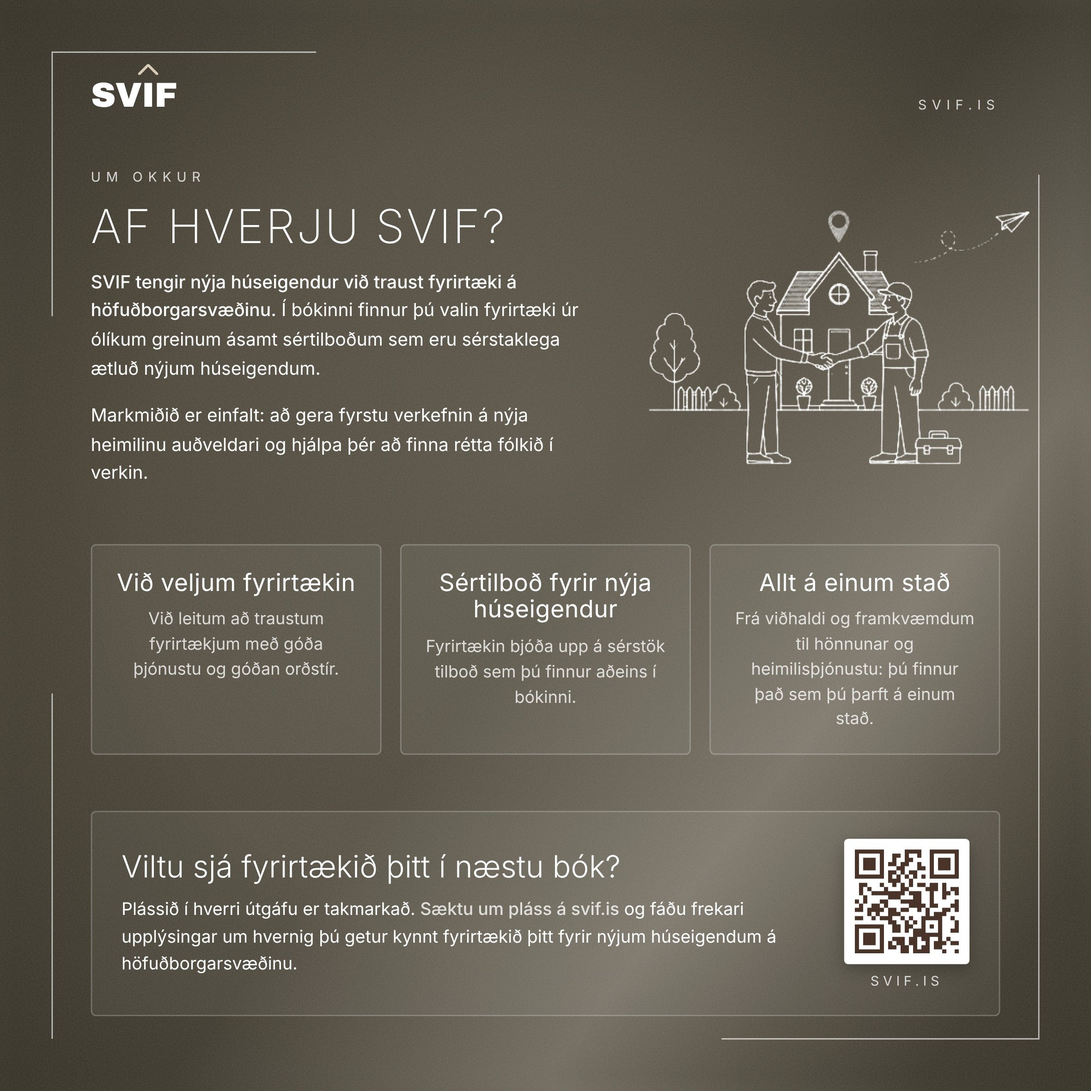
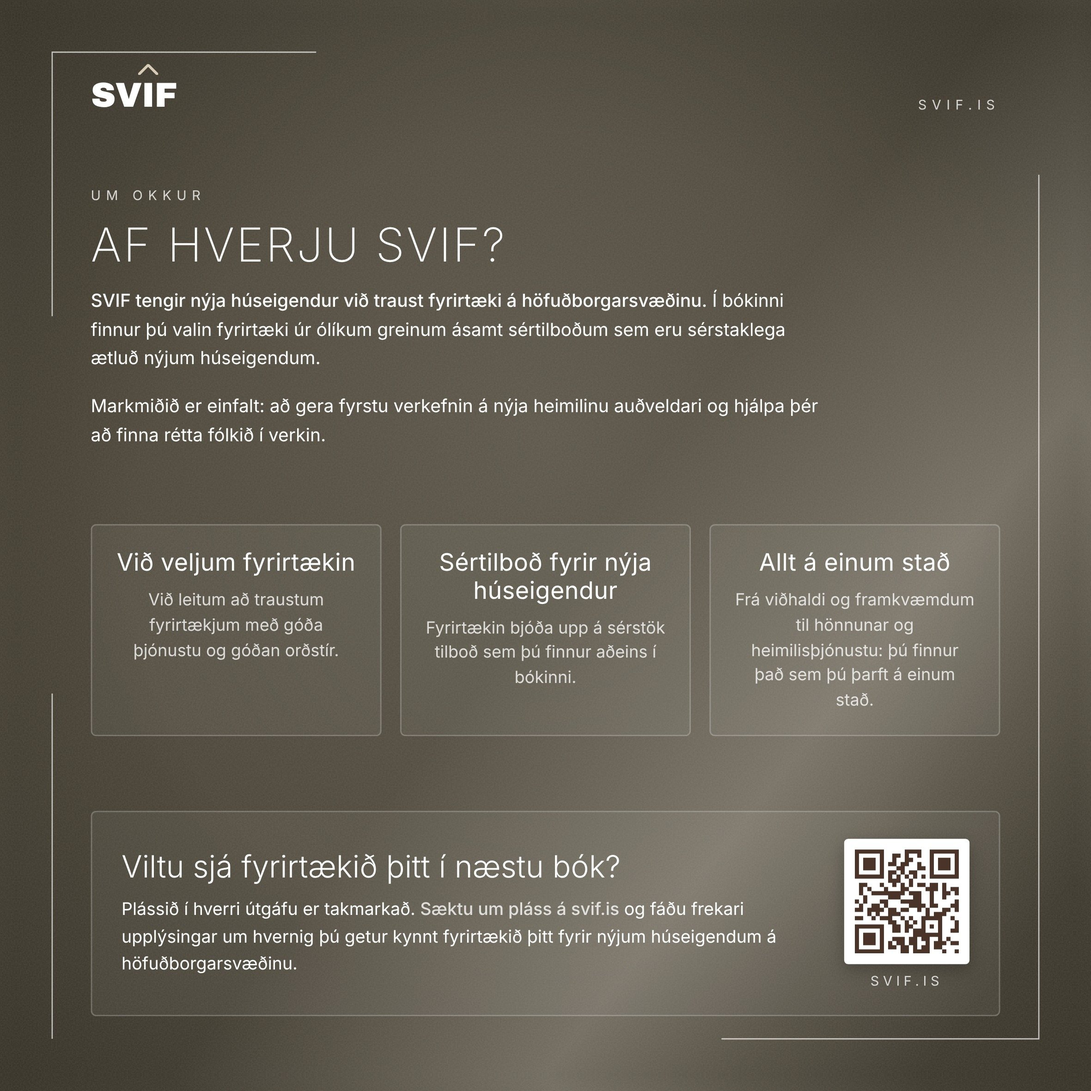
SVIF bæklingur: Fagafl á bls. 19, RÓM Verk á bls. 27, teikning tekin af Af hverju SVIF
Claude-Session: https://claude.ai/code/session_01JAXd2kxjoayDuyNhEKw2yp

diff --git a/svif-baeklingur/vefur/flettibok_src.html b/svif-baeklingur/vefur/flettibok_src.html
@@ -148,9 +148,9 @@ body.flatt .golfskuggi{display:none}
   // 32 síður = 16 blöð. 0 forsíða, 1 yfirlit, 2 afsláttarmiðar, 3–23 auglýsingar, 24–26 laust pláss, 27 Af hverju SVIF,
   // 28 afsláttarmiðar með rifgötun (ekki á kápublaðinu), 29 auð bakhlið miðanna, 30 Kærar þakkir, 31 bakkápa.
   // Hver opna (oddatala + slétt tala) heldur saman skyldum fyrirtækjum; tveggja síðna auglýsingar (Maus, Steindi) byrja á oddatölusíðu.
-  const heiti=['Forsíða', 'Yfirlit', 'Afsláttarmiðar', 'Parki', 'Gardínur', 'HTH', 'Ormsson', 'Straumlind', 'Ísorka', 'Íspan', 'Sticker', 'Maus', 'Maus', 'Gluggavinir', 'TME Gluggar', 'KORA', 'Litamálun', 'Múrbúðin', 'RÓM Verk', 'HK Lagnir', 'MS Lagnir', 'Lásar.is', 'VÍS', 'Af hverju SVIF', 'Afsláttarmiðar', 'Auð síða', 'Fagafl', 'Auð síða', 'Kærar þakkir', 'Bakkápa'];
+  const heiti=['Forsíða', 'Yfirlit', 'Afsláttarmiðar', 'Parki', 'Gardínur', 'HTH', 'Ormsson', 'Straumlind', 'Ísorka', 'Íspan', 'Sticker', 'Maus', 'Maus', 'Gluggavinir', 'TME Gluggar', 'KORA', 'Litamálun', 'Múrbúðin', 'Fagafl', 'HK Lagnir', 'MS Lagnir', 'Lásar.is', 'VÍS', 'Af hverju SVIF', 'Afsláttarmiðar', 'Auð síða', 'RÓM Verk', 'Auð síða', 'Kærar þakkir', 'Bakkápa'];
   // Þema hverrar opnu, eftir flettingu (opna k sýnir síður 2k-1 og 2k).
-  const thema={1:'Yfirlit & afsláttarmiðar',2:'Gólf & gardínur',3:'Eldhús & tæki',4:'Rafmagn & orka',5:'Gler & filmur',6:'Eldvarnir',7:'Gluggar & ísetning',8:'Þjónusta & málun',9:'Múr & rafvirki',10:'Lagnir',11:'Lásar & tryggingar',12:'Um SVIF & afsláttarmiðar',13:'Smíði & viðhald',14:'Kærar þakkir'};
+  const thema={1:'Yfirlit & afsláttarmiðar',2:'Gólf & gardínur',3:'Eldhús & tæki',4:'Rafmagn & orka',5:'Gler & filmur',6:'Eldvarnir',7:'Gluggar & ísetning',8:'Þjónusta & málun',9:'Múr, málun & smíði',10:'Lagnir',11:'Lásar & tryggingar',12:'Um SVIF & afsláttarmiðar',13:'Rafvirki',14:'Kærar þakkir'};
   const S=heiti.length, N=S/2;
   const bok=document.getElementById('bok');
   const mynd=i=>`sidur/sida_${String(i).padStart(2,'0')}.jpg`;

diff --git a/svif-baeklingur/assemble_all.py b/svif-baeklingur/assemble_all.py
@@ -9,10 +9,10 @@ PAGES = [  # (heiti, uppruni) – 29 síður (endanlegur síðufjöldi ákveðin
     ('Forsíða', ny('kapa_fram')), ('Yfirlit', os.path.join(D,'out','d_yfirlit.jpg')), ('Afsláttarmiðar (kynning)', os.path.join(D,'out','afslaettir_dark.jpg')),
     ('Parki', img(5)), ('Gardínur', ad(20)), ('HTH', img(9)), ('Ormsson AEG', img(10)), ('Straumlind', img(4)), ('Ísorka', img(13)),
     ('Íspan', img(6)), ('Sticker', img(7)), ('Maus', ad(11)), ('Maus', ad(12)), ('Gluggavinir', img(17)), ('TME Gluggar', ny('tme')),
-    ('KORA', ad(8)), ('Litamálun', ny('litamalun')), ('Múrbúðin', img(19)), ('RÓM Verk', img(23)), ('HK Lagnir', ad(15)), ('MS Lagnir', ny('mslagnir')),
+    ('KORA', ad(8)), ('Litamálun', ny('litamalun')), ('Múrbúðin', img(19)), ('Fagafl', ny('fagafl')), ('HK Lagnir', ad(15)), ('MS Lagnir', ny('mslagnir')),
     ('Lásar.is', img(16)), ('VÍS', ad(25)),
     ('Af hverju SVIF', os.path.join(D,'out','umsvif_dark.jpg')), ('Afsláttarmiðar', os.path.join(D,'out','midar_thema_framhlid.jpg')), ('Auð síða (bakhlið miðanna)', os.path.join(D,'out','d_aud.jpg')),
-    ('Fagafl', ny('fagafl')), ('Kærar þakkir', os.path.join(D,'out','d_thakkir.jpg')), ('Bakkápa', ny('kapa_bak')),
+    ('RÓM Verk', img(23)), ('Kærar þakkir', os.path.join(D,'out','d_thakkir.jpg')), ('Bakkápa', ny('kapa_bak')),
 ]
 assert len(PAGES) == 29
 SZ = 200 * 72 / 25.4; b = 3 * 72 / 25.4

diff --git a/svif-baeklingur/build_dark_pages.py b/svif-baeklingur/build_dark_pages.py
@@ -22,7 +22,8 @@ build('Afslaettir', 'afslaettir_dark.html', [
     ('style="position: relative; width: 670px; height: 454px; display: block"', 'style="position: relative; width: 690px; height: 454px; display: block; object-fit: contain"'),
 ], blobs={'4a5740764184436a45fbefedb470dc83': 'out/ring_crop.png'})
 build('UmSvif', 'umsvif_dark.html', [
-    ('style="width: 270px; height: 192px; display: block; flex: 0 0 270px"', 'style="width: 300px; height: 213px; display: block; flex: 0 0 300px"'),
+    ('<img src="/_blob/7fd6387f3765f216b035d8596262f1a3" alt="Línuteikning: húseigandi og iðnaðarmaður takast í hendur fyrir framan hús" style="width: 270px; height: 192px; display: block; flex: 0 0 270px">', ''),
+    ('width: 380px; flex: 0 0 380px', 'width: 560px; flex: 0 0 560px'),
     ('<img src="/_blob/096e4e0db7105769a6f86b28d15e9d59" alt="" style="width: 62px; height: 56px; object-fit: contain; display: block">', ''),
     ('<img src="/_blob/e2dff9eafd32583e7a8764d1f8c492fb" alt="" style="width: 52px; height: 56px; object-fit: contain; display: block">', ''),
     ('<img src="/_blob/f9eaf881f43ee088ea0f35606eb32b3d" alt="" style="width: 52px; height: 56px; object-fit: contain; display: block">', ''),

diff --git a/svif-baeklingur/dokk.py b/svif-baeklingur/dokk.py
@@ -71,10 +71,10 @@ KAFLAR = [
     ('Gólf & flísar', [('Parki', '4')]),
     ('Gluggar & gler', [('Gardínur', '5'), ('Íspan', '10'), ('Gluggavinir', '14'), ('TME Gluggar', '15')]),
     ('Eldhús & tæki', [('HTH', '6'), ('Ormsson', '7')]),
-    ('Rafmagn & rafbíll', [('Straumlind', '8'), ('Ísorka', '9'), ('RÓM Verk', '19')]),
+    ('Rafmagn & rafbíll', [('Straumlind', '8'), ('Ísorka', '9'), ('RÓM Verk', '27')]),
     ('Þjónusta & filmur', [('sticker.is', '11'), ('KORA', '16')]),
     ('Eldvarnir', [('Maus', '12–13')]),
-    ('Múr & málun', [('Litamálun', '17'), ('Múrbúðin', '18'), ('Fagafl', '27')]),
+    ('Múr, málun & smíði', [('Litamálun', '17'), ('Múrbúðin', '18'), ('Fagafl', '19')]),
     ('Bað & lagnir', [('HK Lagnir', '20'), ('MS Lagnir', '21')]),
     ('Lásar & tryggingar', [('Lásar.is', '22'), ('VÍS', '23')]),
 ]
